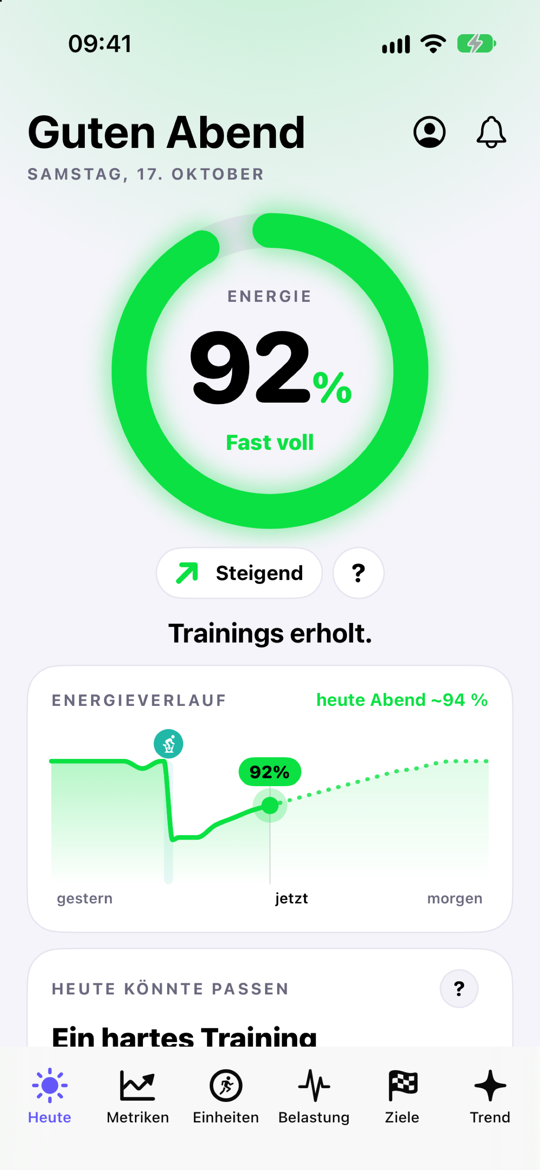
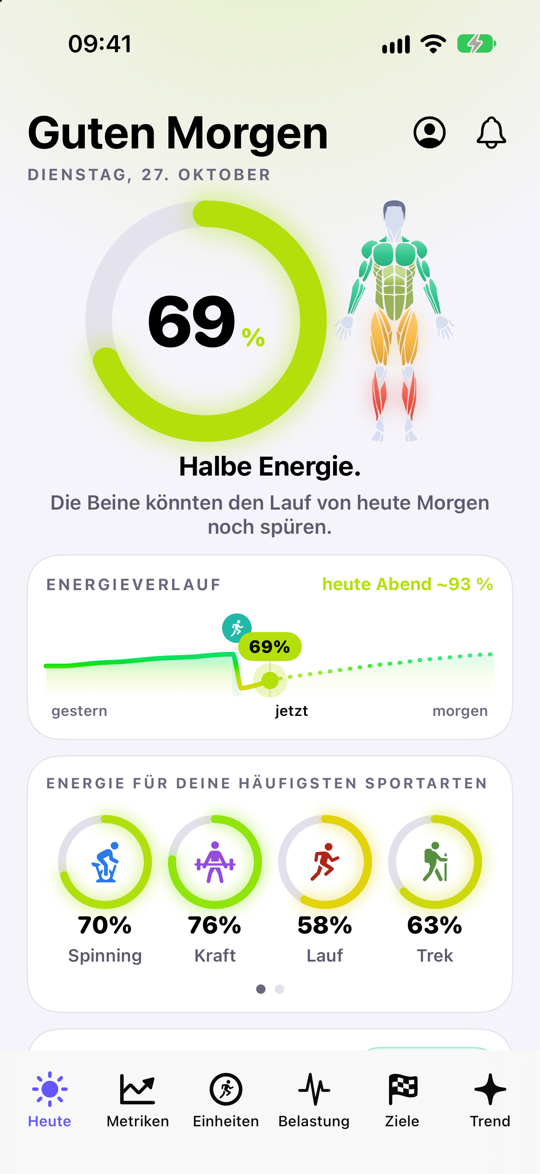
Hero: current Today screen (energy ring, muscle figure, per-sport energy) and the muscle map in place of the 3D flight.

diff --git a/de/index.html b/de/index.html
@@ -10,7 +10,7 @@
   <link rel="preconnect" href="https://fonts.googleapis.com">
   <link rel="preconnect" href="https://fonts.gstatic.com" crossorigin>
   <link href="https://fonts.googleapis.com/css2?family=Instrument+Sans:wght@400;600;700&family=Syne:wght@600;700;800&display=swap" rel="stylesheet">
-  <link rel="stylesheet" href="../styles.css?v=14">
+  <link rel="stylesheet" href="../styles.css?v=15">
   <meta name="apple-itunes-app" content="app-id=6804388724">
   <meta property="og:type" content="website">
   <meta property="og:site_name" content="LifeNex">
@@ -82,8 +82,8 @@
       </div>
       <div class="hero-phones" aria-hidden="true">
         <div class="phone phone-left"><img src="../assets/screenshots/de-movimento.png?v=2" alt=""></div>
-        <div class="phone phone-main"><img src="../assets/screenshots/de-oggi.png?v=2" alt=""></div>
-        <div class="phone phone-right"><img src="../assets/screenshots/de-8.png" alt=""></div>
+        <div class="phone phone-main"><img src="../assets/screenshots/de-oggi.png?v=3" alt=""></div>
+        <div class="phone phone-right"><img src="../assets/screenshots/de-muscoli.png?v=1" alt=""></div>
       </div>
     </div>
   </section>

diff --git a/en/index.html b/en/index.html
@@ -10,7 +10,7 @@
   <link rel="preconnect" href="https://fonts.googleapis.com">
   <link rel="preconnect" href="https://fonts.gstatic.com" crossorigin>
   <link href="https://fonts.googleapis.com/css2?family=Instrument+Sans:wght@400;600;700&family=Syne:wght@600;700;800&display=swap" rel="stylesheet">
-  <link rel="stylesheet" href="../styles.css?v=14">
+  <link rel="stylesheet" href="../styles.css?v=15">
   <meta name="apple-itunes-app" content="app-id=6804388724">
   <meta property="og:type" content="website">
   <meta property="og:site_name" content="LifeNex">
@@ -82,8 +82,8 @@
       </div>
       <div class="hero-phones" aria-hidden="true">
         <div class="phone phone-left"><img src="../assets/screenshots/en-movimento.png?v=2" alt=""></div>
-        <div class="phone phone-main"><img src="../assets/screenshots/en-oggi.png?v=2" alt=""></div>
-        <div class="phone phone-right"><img src="../assets/screenshots/en-8.png" alt=""></div>
+        <div class="phone phone-main"><img src="../assets/screenshots/en-oggi.png?v=3" alt=""></div>
+        <div class="phone phone-right"><img src="../assets/screenshots/en-muscoli.png?v=1" alt=""></div>
       </div>
     </div>
   </section>

diff --git a/fr/index.html b/fr/index.html
@@ -10,7 +10,7 @@
   <link rel="preconnect" href="https://fonts.googleapis.com">
   <link rel="preconnect" href="https://fonts.gstatic.com" crossorigin>
   <link href="https://fonts.googleapis.com/css2?family=Instrument+Sans:wght@400;600;700&family=Syne:wght@600;700;800&display=swap" rel="stylesheet">
-  <link rel="stylesheet" href="../styles.css?v=14">
+  <link rel="stylesheet" href="../styles.css?v=15">
   <meta name="apple-itunes-app" content="app-id=6804388724">
   <meta property="og:type" content="website">
   <meta property="og:site_name" content="LifeNex">
@@ -82,8 +82,8 @@
       </div>
       <div class="hero-phones" aria-hidden="true">
         <div class="phone phone-left"><img src="../assets/screenshots/fr-movimento.png?v=2" alt=""></div>
-        <div class="phone phone-main"><img src="../assets/screenshots/fr-oggi.png?v=2" alt=""></div>
-        <div class="phone phone-right"><img src="../assets/screenshots/fr-8.png" alt=""></div>
+        <div class="phone phone-main"><img src="../assets/screenshots/fr-oggi.png?v=3" alt=""></div>
+        <div class="phone phone-right"><img src="../assets/screenshots/fr-muscoli.png?v=1" alt=""></div>
       </div>
     </div>
   </section>

diff --git a/index.html b/index.html
@@ -10,7 +10,7 @@
   <link rel="preconnect" href="https://fonts.googleapis.com">
   <link rel="preconnect" href="https://fonts.gstatic.com" crossorigin>
   <link href="https://fonts.googleapis.com/css2?family=Instrument+Sans:wght@400;600;700&family=Syne:wght@600;700;800&display=swap" rel="stylesheet">
-  <link rel="stylesheet" href="styles.css?v=14">
+  <link rel="stylesheet" href="styles.css?v=15">
   <meta name="apple-itunes-app" content="app-id=6804388724">
   <meta property="og:type" content="website">
   <meta property="og:site_name" content="LifeNex">
@@ -94,8 +94,8 @@
       </div>
       <div class="hero-phones" aria-hidden="true">
         <div class="phone phone-left"><img src="assets/screenshots/it-movimento.png?v=2" alt=""></div>
-        <div class="phone phone-main"><img src="assets/screenshots/it-oggi.png?v=2" alt=""></div>
-        <div class="phone phone-right"><img src="assets/screenshots/it-8.png" alt=""></div>
+        <div class="phone phone-main"><img src="assets/screenshots/it-oggi.png?v=3" alt=""></div>
+        <div class="phone phone-right"><img src="assets/screenshots/it-muscoli.png?v=1" alt=""></div>
       </div>
     </div>
   </section>

diff --git a/scripts/generate_pages.py b/scripts/generate_pages.py
@@ -482,7 +482,7 @@ def home_html(lang: str) -> str:
   <link rel="preconnect" href="https://fonts.googleapis.com">
   <link rel="preconnect" href="https://fonts.gstatic.com" crossorigin>
   <link href="https://fonts.googleapis.com/css2?family=Instrument+Sans:wght@400;600;700&family=Syne:wght@600;700;800&display=swap" rel="stylesheet">
-  <link rel="stylesheet" href="{CSS[lang]}?v=14">
+  <link rel="stylesheet" href="{CSS[lang]}?v=15">
 {seo_home_head(lang, c)}
 {lang_head(lang, "home")}
 </head>
@@ -522,8 +522,8 @@ def home_html(lang: str) -> str:
       </div>
       <div class="hero-phones" aria-hidden="true">
         <div class="phone phone-left"><img src="{a}screenshots/{SHOT_PREFIX[lang]}-movimento.png?v=2" alt=""></div>
-        <div class="phone phone-main"><img src="{a}screenshots/{SHOT_PREFIX[lang]}-oggi.png?v=2" alt=""></div>
-        <div class="phone phone-right"><img src="{a}screenshots/{SHOT_PREFIX[lang]}-8.png" alt=""></div>
+        <div class="phone phone-main"><img src="{a}screenshots/{SHOT_PREFIX[lang]}-oggi.png?v=3" alt=""></div>
+        <div class="phone phone-right"><img src="{a}screenshots/{SHOT_PREFIX[lang]}-muscoli.png?v=1" alt=""></div>
       </div>
     </div>
   </section>
